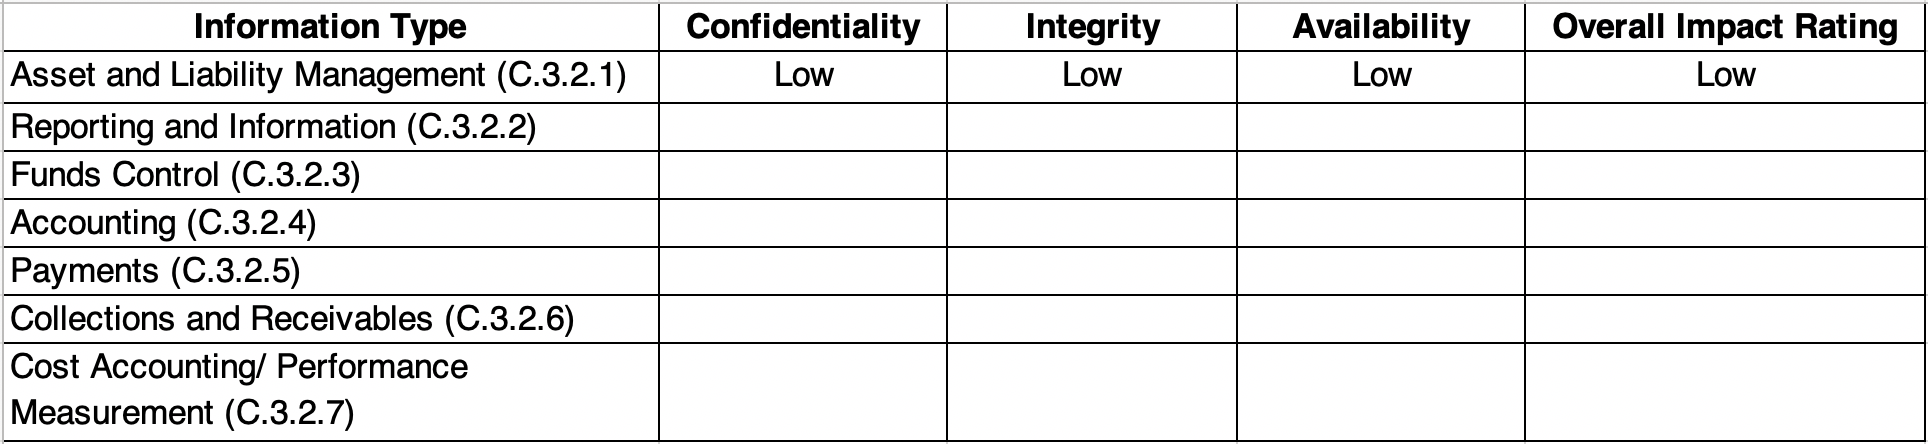
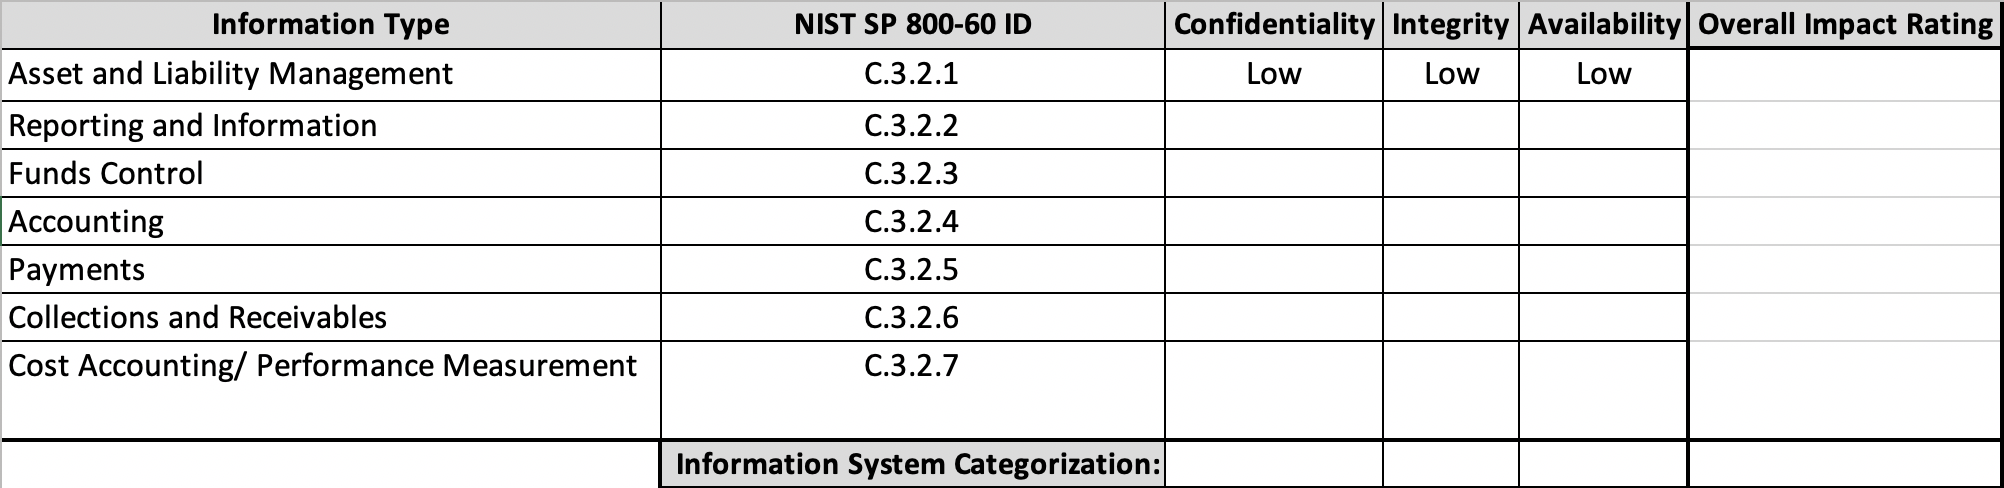
Updated Milestone 4 with David Lanter's edits

Changed region(s): [[0.0, 0.0, 1.0, 1.0]]

diff --git a/milestone4.md b/milestone4.md
@@ -3,7 +3,21 @@ layout: assignment
 title: Milestone 4 Instructions
 ---
 
-Your assignment is to create a risk assessment and mitigation report for the server your examined in Milestone 2. However, now consider that the Milestone 3 server was an integral part of processing the following financial management information types (e.g., the C.3.2 "Financial Management" category in Table 6 of [NIST Special Publication 800-60 Volume I](https://nvlpubs.nist.gov/nistpubs/Legacy/SP/nistspecialpublication800-60v1r1.pdf)):
+with *Dr.* [*David Lanter*](https://community.mis.temple.edu/dlanter/)
+
+Your assignment is to create a risk assessment and mitigation report for managers of a (fictitious) company that owns and depends on financial management information and information system running on the server you examined in the penetration test you conducted in Milestone 2.
+
+The purpose of your risk assessment is to clarify the level of concern for confidentiality, integrity, and availability and the potential impact on the business’ operations should the information and information system be compromised through unauthorized access, use, disclosure, disruption, modification, or destruction.
+
+Your risk assessment will be based on: 
+1.	Security objectives and potential impacts defined in [Federal Information Processing Standard 199: “Standards for Security Categorization of Federal Information and Information Systems”](https://nvlpubs.nist.gov/nistpubs/FIPS/NIST.FIPS.199.pdf), 
+2.	Methodology for assigning impact levels to information and information system types described in [NIST Special Publication 800-60 Volume I](https://nvlpubs.nist.gov/nistpubs/Legacy/SP/nistspecialpublication800-60v1r1.pdf), 
+3.	Provisional security categorizations assigned to the financial management information types by [NIST Special Publication 800-60 Volume II](https://nvlpubs.nist.gov/nistpubs/Legacy/SP/nistspecialpublication800-60v2r1.pdf), 
+4.	Determination of an overall security categorization for the financial management information system based on the provisional security categorization of the information types (from 3 above)
+
+The security risk categorization you present in your risk assessment will enable you to use [NIST Special Publication 800-53r4](https://nvlpubs.nist.gov/nistpubs/SpecialPublications/NIST.SP.800-53r4.pdf) to select security controls to mitigate the vulnerabilities you identified in your penetration test report of Milestones 2 and 3 for the financial management information and information system. 
+
+To start, consider that the Milestone 2 server was an integral part of processing the following financial management information types (e.g., the C.3.2 “Financial Management” category in Table 6 of [NIST Special Publication 800-60 Volume I](https://nvlpubs.nist.gov/nistpubs/Legacy/SP/nistspecialpublication800-60v1r1.pdf)):
 
 * Asset and Liability Management (C.3.2.1)
 * Reporting and Information (C.3.2.2)
@@ -19,7 +33,7 @@ Your assignment is to create a risk assessment and mitigation report for the ser
 
     ![img]( {{ "/assets/images/Impact-table.png" | relative_url }}){: width="700px" }
     
-    For each row, the "overall impact rating" is the highest impact listed in any of the cells for "confidentiality," "integrity," and "availability."
+    For each security objective column (i.e., under “Confidentiality,” “Integrity,” and “Availability”), calculate the overall categorization of the information stored within the server that houses the financial management information and information system. Determine the “Overall Impact Rating” by recording the highest impact value listed in any of the security objectives: “Confidentiality,” “Integrity,” and “Availability” to determine the overall information system categorization.
     
     You can use [this Excel spreadsheet file](/security-assignments/assets/files/Risk_assessment_table.xlsx) as a template.
 
@@ -65,7 +79,7 @@ discuss the most serious vulnerabilities first.
 
 4. In section 3, describe mitigating controls you identified in Step 3 above for the vulnerabilities you reported in Section 3 of your penetration test report.
     * List the specific controls from [NIST Special Publication 800-53: "Security and Privacy Controls for Federal Information Systems and Organizations"](https://nvlpubs.nist.gov/nistpubs/SpecialPublications/NIST.SP.800-53r4.pdf) (e.g., "IA-1: Identification and Authentication Policy and Procedures").
-    * Explains each control. You're welcome to to quote from NIST 800-53, with attribution.
+    * Explain each control. You're welcome to quote from NIST 800-53, with attribution.
     * Group your controls by control family (e.g., group all "IA" controls together).
     * *Be explicit how each control would mitigate the vulnerabilities you found*.
     
